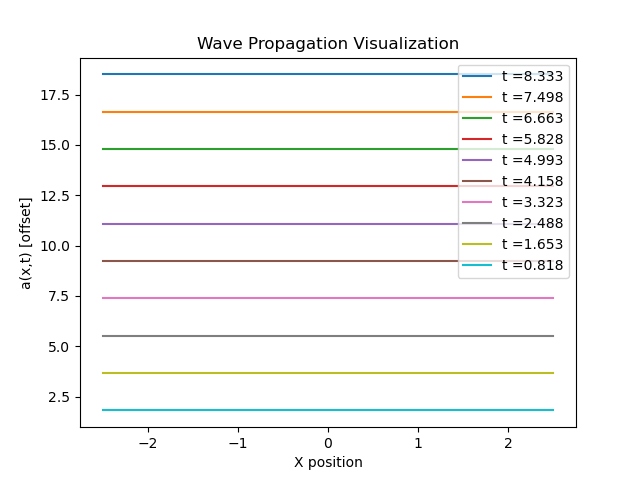
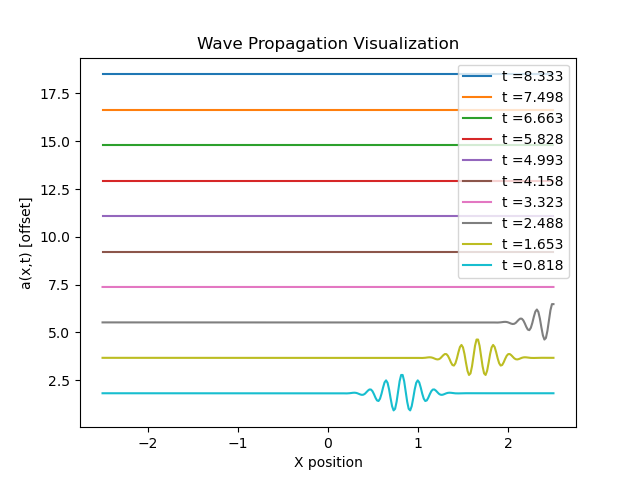
Added the time evolution loop to update the wave profile array

diff --git a/NairMalavika_Lab11.py b/NairMalavika_Lab11.py
@@ -101,6 +101,12 @@ def advection1d(method, nspace, ntime, tau_rel, params):
     else:
         raise ValueError("Invalid method. Choose 'ftcs' or 'lax'.")
 
+    # Compute the wave at each time step
+    for current_time in range(ntime - 1):
+    # Compute the next time step using matrix multiplication
+        next_state = np.dot(A, a[:, current_time])
+    # Update the array with the new state
+        a[:, current_time + 1] = next_state
 
     return a, x, t
 
